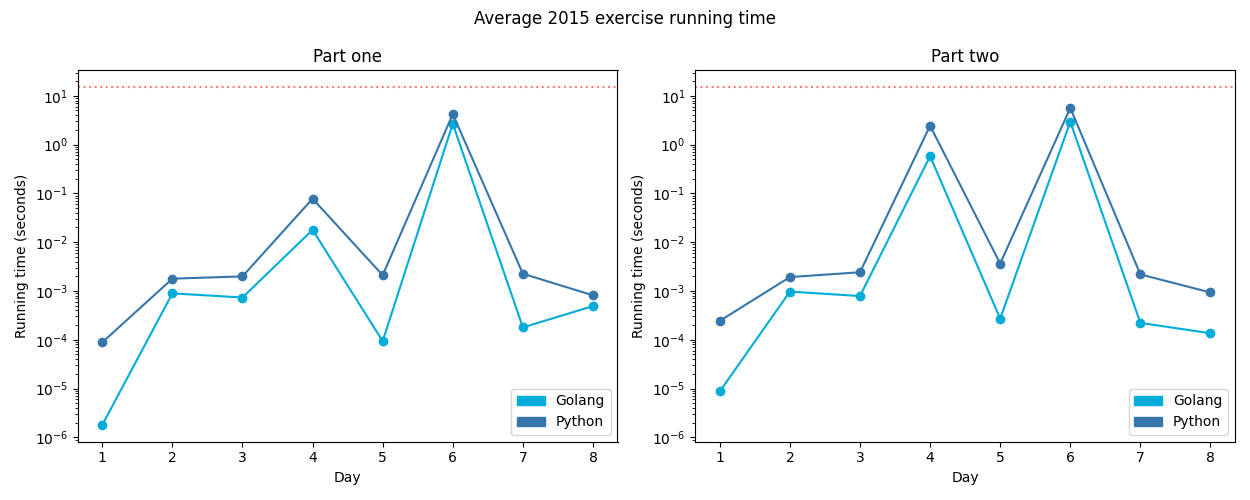
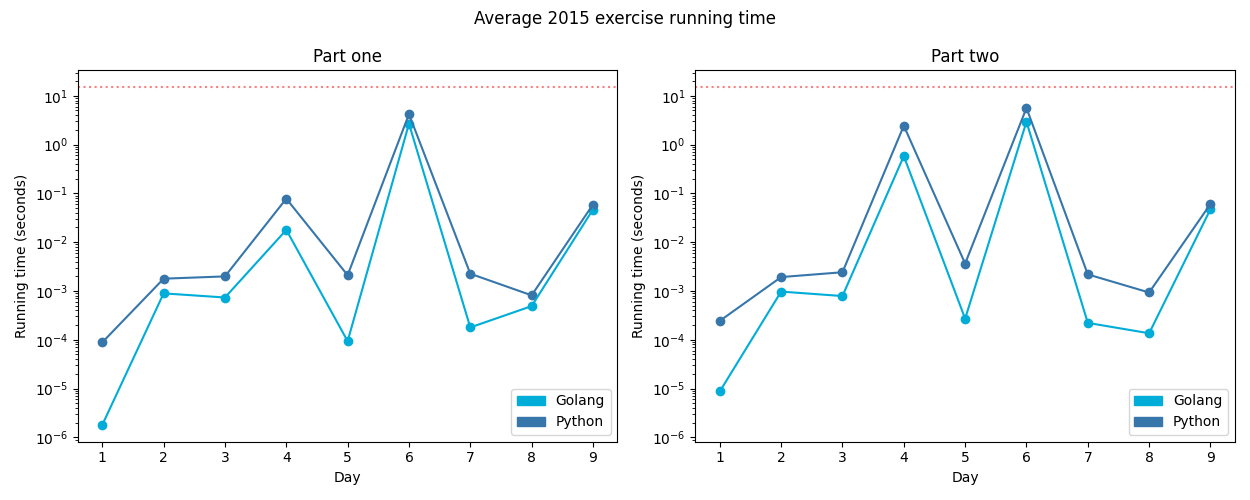
doc: aoc15-9 results

diff --git a/exercises/2015/README.md b/exercises/2015/README.md
@@ -14,7 +14,7 @@
 | [Day 6: Probably A Fire Hazard][rm6]                 |  ★ ★  | [Go][g6], [Python][p6] |
 | [Day 7: Some Assembly Required][rm7]                 |  ★ ★  | [Go][g7], [Python][p7] |
 | [Day 8: Matchsticks][rm8]                            |  ★ ★  | [Go][g8], [Python][p8] |
-| 9                                                    |  ☆ ☆  |                        |
+| [Day 9: All In A Single Night][rm9]                  |  ★ ★  | [Go][g9], [Python][p9] |
 | 10                                                   |  ☆ ☆  |                        |
 | 11                                                   |  ☆ ☆  |                        |
 | 12                                                   |  ☆ ☆  |                        |
@@ -60,3 +60,6 @@
 [rm8]: 08-matchsticks/README.md
 [g8]: 08-matchsticks/go
 [p8]: 08-matchsticks/py
+[rm9]: 09-allInASingleNight/README.md
+[g9]: 09-allInASingleNight/go
+[p9]: 09-allInASingleNight/py
